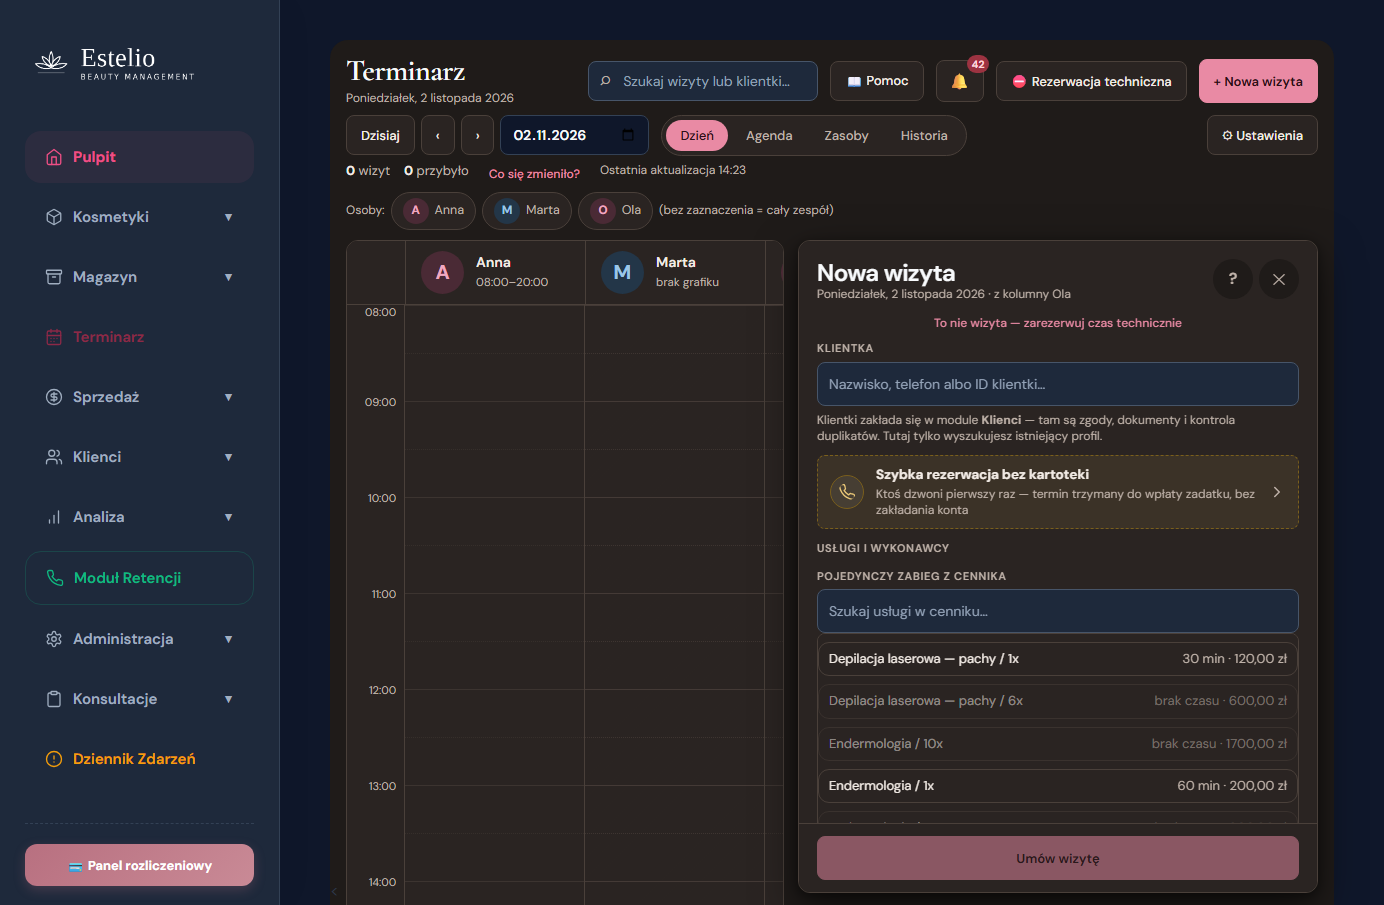
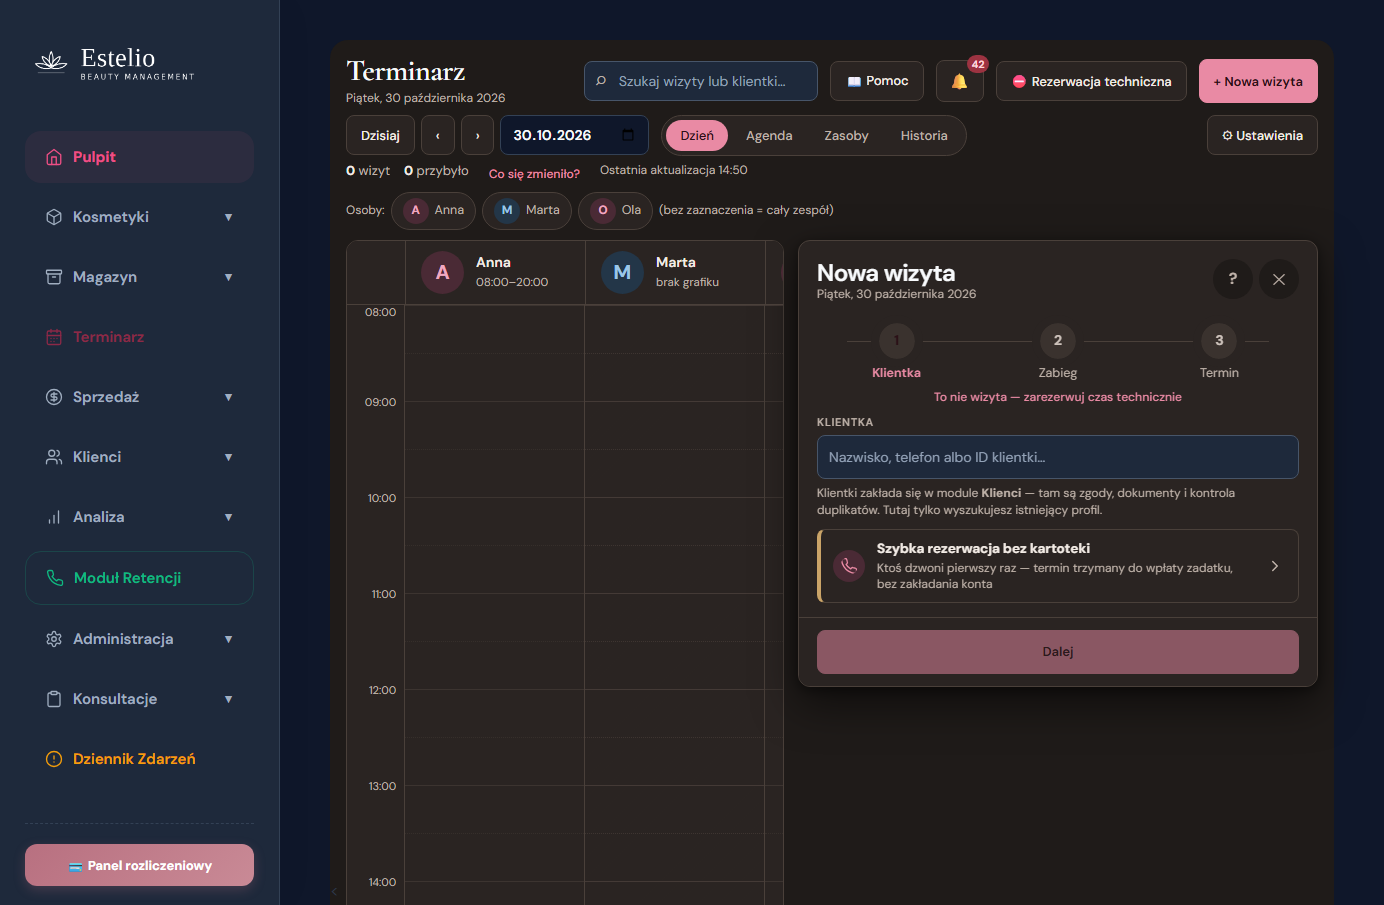
style(terminarz): szybka rezerwacja w kreatorze jako zwykła karta panelu — koniec żółtej kreskowanej ramki
Zrzut właściciela z produkcji (30.10, 14:47): formularz danych z rozmowy w żółtej kreskowanej ramce, z zawijającą się
etykietą „Telefon (na niego pójdzie link do zadatku)”, nierównymi polami i gęstym akapitem — wyglądał roboczo.

Teraz przycisk wejścia, formularz i wybrana osoba to jedna rodzina: biała karta jak reszta panelu (--t-sur, --t-line),
złoty akcent 4 px z lewej, słuchawka SVG w różowym kółku akcentu. Etykiety krótkie („Imię i nazwisko”, „Telefon”),
podpowiedź o SMS-ie pod polem, nagłówek z jednym zdaniem zamiast akapitu, przycisk „Zapisz dane”. Wybrana osoba:
imię, telefon, plakietka „do wpłaty zadatku” i jedno zdanie. Kreskowane tło zostaje wyłącznie na kafelku w siatce,
gdzie znaczy „niepotwierdzona”. Tryb ciemny z tokenów, bez osobnych kolorów.

Dowód: próba K01–K03 PASS, sześć zrzutów (jasny/ciemny) w docs/terminarz-szybka-rezerwacja/, pełny jest zielony.

diff --git a/public/terminarz.css b/public/terminarz.css
@@ -118,23 +118,30 @@ body.dark-mode .trm { --t-bg:#1f1b19; --t-sur:#2a2422; --t-ink:#f3ece6; --t-mut:
 /* szybka rezerwacja do wpłaty zadatku (hold): kreskowana, bursztynowa — ma się odróżniać od wizyt potwierdzonych */
 .trm-karta.hold { border-style:dashed; border-color:#d9b25a; background:var(--t-warn-bg); }
 .trm-karta.hold .zn .st { background:#f6dfa4; color:var(--t-warn-fg); }
-.trm-wybrana.hold { border:1px dashed #d9b25a; background:var(--t-warn-bg); }
-.trm-bk { border:1px dashed #d9b25a; border-radius:var(--t-rs); padding:10px 12px; background:var(--t-warn-bg); }
-.trm-bk-head { display:flex; align-items:center; gap:8px; margin-bottom:8px; font-size:13px; color:var(--t-warn-fg); }
-.trm-bk-head .ico { color:var(--t-warn-fg); }
-/* przycisk wejścia w szybką rezerwację: pełna szerokość, słuchawka w kółku, dwie linie tekstu, strzałka — nie tekstowy odnośnik */
-.trm-bk-start { display:flex; align-items:center; gap:12px; width:100%; margin-top:10px; padding:10px 12px; text-align:left; font:inherit; cursor:pointer; border-radius:var(--t-rs); border:1px dashed #d9b25a; background:var(--t-warn-bg); color:inherit; transition:background .13s, border-color .13s, box-shadow .13s; }
-.trm-bk-start:hover, .trm-bk-start:focus-visible { background:#fbe9c0; border-style:solid; box-shadow:0 2px 8px rgba(120,82,14,.12); outline:none; }
-.trm-bk-start .ico { flex:0 0 34px; width:34px; height:34px; padding:7px; border-radius:50%; background:#fff; color:var(--t-warn-fg); border:1px solid #ecd59a; }
+/* Szybka rezerwacja (hold) w kreatorze — ta sama karta co reszta panelu (biała, --t-line), tylko złoty akcent z lewej.
+   Żółte kreskowane tło zostaje wyłącznie na kafelku w siatce, gdzie znaczy „niepotwierdzona”. */
+.trm-bk, .trm-wybrana.hold { background:var(--t-sur); border:1px solid var(--t-line); border-left:4px solid var(--t-gold); border-radius:var(--t-rs); padding:12px 14px; margin-top:6px; }
+.trm-bk-head { display:flex; align-items:center; gap:10px; margin-bottom:10px; }
+.trm-bk-head .ico, .trm-wybrana.hold .ico, .trm-bk-start .ico { flex:0 0 32px; width:32px; height:32px; padding:7px; border-radius:50%; background:var(--t-acc2); color:var(--t-acc); }
+.trm-bk-head .t { display:flex; flex-direction:column; gap:1px; min-width:0; }
+.trm-bk-head .t b { font-size:13.5px; }
+.trm-bk-head .t small, .trm-bk .trm-pomoc { font-size:12px; color:var(--t-mut); line-height:1.35; margin:0; }
+.trm-bk .trm-grid2 { align-items:start; }
+.trm-bk .trm-field { margin-bottom:8px; }
+.trm-bk .trm-field label { white-space:nowrap; }
+.trm-bk .trm-row { margin-top:4px; }
+.trm-wybrana.hold { display:flex; align-items:center; gap:10px; }
+.trm-wybrana.hold .t { flex:1; min-width:0; display:flex; flex-direction:column; gap:2px; }
+.trm-wybrana.hold .t .m { font-size:12px; color:var(--t-mut); }
+.trm-wybrana.hold .trm-pill { font-size:11px; }
+/* wejście w szybką rezerwację: pełny przycisk w języku kart panelu, nie tekstowy odnośnik */
+.trm-bk-start { display:flex; align-items:center; gap:12px; width:100%; margin-top:10px; padding:10px 14px 10px 12px; text-align:left; font:inherit; cursor:pointer; border-radius:var(--t-rs); border:1px solid var(--t-line); border-left:4px solid var(--t-gold); background:var(--t-sur); color:inherit; transition:background .13s, box-shadow .13s; }
+.trm-bk-start:hover, .trm-bk-start:focus-visible { background:var(--t-bg); box-shadow:0 2px 10px rgba(48,39,32,.08); outline:none; }
 .trm-bk-start .t { display:flex; flex-direction:column; gap:1px; min-width:0; flex:1; }
 .trm-bk-start .t b { font-size:13.5px; }
 .trm-bk-start .t small { font-size:12px; color:var(--t-mut); line-height:1.35; }
 .trm-bk-start .chev { flex:0 0 18px; color:var(--t-mut); }
-body.dark-mode .trm .trm-bk-start { background:rgba(217,178,90,.1); border-color:#7a5f1c; }
-body.dark-mode .trm .trm-bk-start:hover { background:rgba(217,178,90,.18); }
-body.dark-mode .trm .trm-bk-start .ico { background:rgba(255,255,255,.06); border-color:#7a5f1c; color:#e9c777; }
-body.dark-mode .trm .trm-bk, body.dark-mode .trm .trm-wybrana.hold { background:rgba(217,178,90,.1); border-color:#7a5f1c; }
-body.dark-mode .trm .trm-bk-head, body.dark-mode .trm .trm-bk-head .ico { color:#e9c777; }
+body.dark-mode .trm .trm-bk-start:hover { background:rgba(255,255,255,.04); }
 .trm-zadatek-os { display:flex; flex-direction:column; gap:4px; margin:6px 0 10px; font-size:12.5px; }
 .trm-zadatek-os > div { display:flex; gap:8px; align-items:flex-start; color:var(--t-mut); }
 .trm-zadatek-os > div i { flex:0 0 10px; width:10px; height:10px; border-radius:50%; border:2px solid #d9b25a; margin-top:4px; background:#fff; }

diff --git a/public/terminarz.js b/public/terminarz.js
@@ -1356,12 +1356,11 @@
     return `${n.klient || n.pozycje.length ? '' : `<div class="trm-row" style="justify-content:flex-end;margin:-4px 0 6px"><button class="trm-btn link sm" onclick="TRM.blokadaNowa({ start: '${esc(n.start)}', osoba: '${esc(n.prefPrac || n.domyslny || '')}' })">To nie wizyta — zarezerwuj czas technicznie</button></div>`}
       <div class="trm-field"><label>Klientka</label>
       ${n.klient ? (n.klient.bez_kartoteki
-        ? `<div class="trm-wybrana hold"><b>${esc(n.klient.nazwa)}</b> <span class="muted small">· ${esc(n.klient.telefon)} · <span class="trm-pill warn">bez kartoteki · do wpłaty zadatku</span></span> <button class="trm-btn link sm" onclick="TRM.nowaKlient(null)">zmień</button>
-           <div class="trm-pomoc">Termin będzie trzymany do wpłaty zadatku (najdłużej dobę, nie później niż dobę przed wizytą). Konto powstanie dopiero, gdy ta osoba zaakceptuje regulamin na linku do zadatku.</div></div>`
+        ? `<div class="trm-wybrana hold">${IKONA_TELEFON}<div class="t"><div><b>${esc(n.klient.nazwa)}</b> <span class="muted small">· ${esc(n.klient.telefon)}</span></div><div class="m"><span class="trm-pill warn">do wpłaty zadatku</span> bez kartoteki — termin trzymany najdłużej dobę, konto po akceptacji regulaminu na linku</div></div><button class="trm-btn link sm fix" onclick="TRM.nowaKlient(null)">zmień</button></div>`
         : `<div class="trm-wybrana"><b>${esc(n.klient.nazwa)}</b> <span class="muted small">· ${esc(n.klient.telefon || 'brak telefonu')} · ID ${esc(n.klient.id_klienta)}</span> <button class="trm-btn link sm" onclick="TRM.nowaKlient(null)">zmień</button>${n.klient.ostrzezenie ? `<div class="trm-note warn small">⚠ ${esc(n.klient.ostrzezenie)}</div>` : ''}</div>`)
-      : n.bk ? `<div class="trm-bk"><div class="trm-bk-head">${IKONA_TELEFON}<b>Szybka rezerwacja bez kartoteki</b></div><div class="trm-grid2"><div class="trm-field"><label>Imię i nazwisko</label><input id="trm-bk-nazwa" placeholder="np. Jan Kowalski" value="${esc(n.bk.nazwa || '')}" autocomplete="off"></div><div class="trm-field"><label>Telefon (na niego pójdzie link do zadatku)</label><input id="trm-bk-tel" type="tel" placeholder="np. 600 100 200" value="${esc(n.bk.telefon || '')}" autocomplete="off"></div></div>
-           <div class="trm-row"><button class="trm-btn sm primary" onclick="TRM.nowaBkZatwierdz()">Użyj tych danych</button><button class="trm-btn sm link" onclick="TRM.nowa.bk=null;TRM.renderNowa()">Wróć do kartoteki</button></div>
-           <div class="trm-pomoc">Szybka rezerwacja: osoba, której nikt jeszcze nie widział. Termin jest trzymany do wpłaty zadatku, potem wygasa sam. Bez konta w Klientach, dopóki nie zaakceptuje regulaminu.</div></div>`
+      : n.bk ? `<div class="trm-bk"><div class="trm-bk-head">${IKONA_TELEFON}<div class="t"><b>Szybka rezerwacja bez kartoteki</b><small>Termin trzymany do wpłaty zadatku, potem wygasa sam. Konto powstanie po akceptacji regulaminu na linku.</small></div></div>
+           <div class="trm-grid2"><div class="trm-field"><label>Imię i nazwisko</label><input id="trm-bk-nazwa" placeholder="np. Jan Kowalski" value="${esc(n.bk.nazwa || '')}" autocomplete="off"></div><div class="trm-field"><label>Telefon</label><input id="trm-bk-tel" type="tel" placeholder="np. 600 100 200" value="${esc(n.bk.telefon || '')}" autocomplete="off"><div class="trm-pomoc">Na ten numer pójdzie link do zadatku.</div></div></div>
+           <div class="trm-row"><button class="trm-btn sm primary" onclick="TRM.nowaBkZatwierdz()">Zapisz dane</button><button class="trm-btn sm link" onclick="TRM.nowa.bk=null;TRM.renderNowa()">Wróć do kartoteki</button></div></div>`
       : `<input id="trm-k-fraza" placeholder="Nazwisko, telefon albo ID klientki…" value="${esc(n.fraza)}" oninput="TRM.nowaSzukaj(this.value)" autocomplete="off">
          <div class="trm-wyniki-klient" id="trm-k-wyniki" ${n.wyniki.length ? '' : 'hidden'}>${klientWynikiHtml(n.wyniki)}</div>
          <div class="trm-row" style="margin-top:6px"><span class="muted small">Klientki zakłada się w module <b>Klienci</b> — tam są zgody, dokumenty i kontrola duplikatów. Tutaj tylko wyszukujesz istniejący profil.</span></div>

diff --git a/tests/terminarz-szybka-rezerwacja.test.js b/tests/terminarz-szybka-rezerwacja.test.js
@@ -146,7 +146,13 @@ describe('ekran recepcji', () => {
         expect(JS).toMatch(/const IKONA_TELEFON = '<svg class="ico" viewBox="0 0 24 24"/);
         expect(JS).not.toMatch(/nowaBezKartoteki\(\)">[^<]*[\u{1F300}-\u{1FAFF}]/u);
         expect(CSS).toContain('.trm-bk-start { display:flex;');
-        expect(CSS).toContain('body.dark-mode .trm .trm-bk-start {');
+        // druga uwaga właściciela (30.10, zrzut z produkcji): żółta kreskowana ramka w kreatorze wyglądała roboczo —
+        // formularz i wybór są teraz zwykłą kartą panelu ze złotym akcentem; kreskowany zostaje tylko kafelek na siatce
+        expect(CSS).toContain('.trm-bk, .trm-wybrana.hold { background:var(--t-sur); border:1px solid var(--t-line); border-left:4px solid var(--t-gold);');
+        expect(CSS).not.toMatch(/\.trm-bk \{[^}]*dashed/);
+        expect(CSS).toContain('.trm-karta.hold { border-style:dashed;');
+        expect(JS).toContain('<label>Telefon</label>');
+        expect(JS).toContain('>Zapisz dane</button>');
         expect(JS).toContain("n.klient = { id_klienta: null, nazwa, telefon, bez_kartoteki: true };");
         expect(JS).toContain("if (telefon.replace(/\\D/g, '').length < 9) return toast('warning', 'Podaj numer telefonu'");
     });
